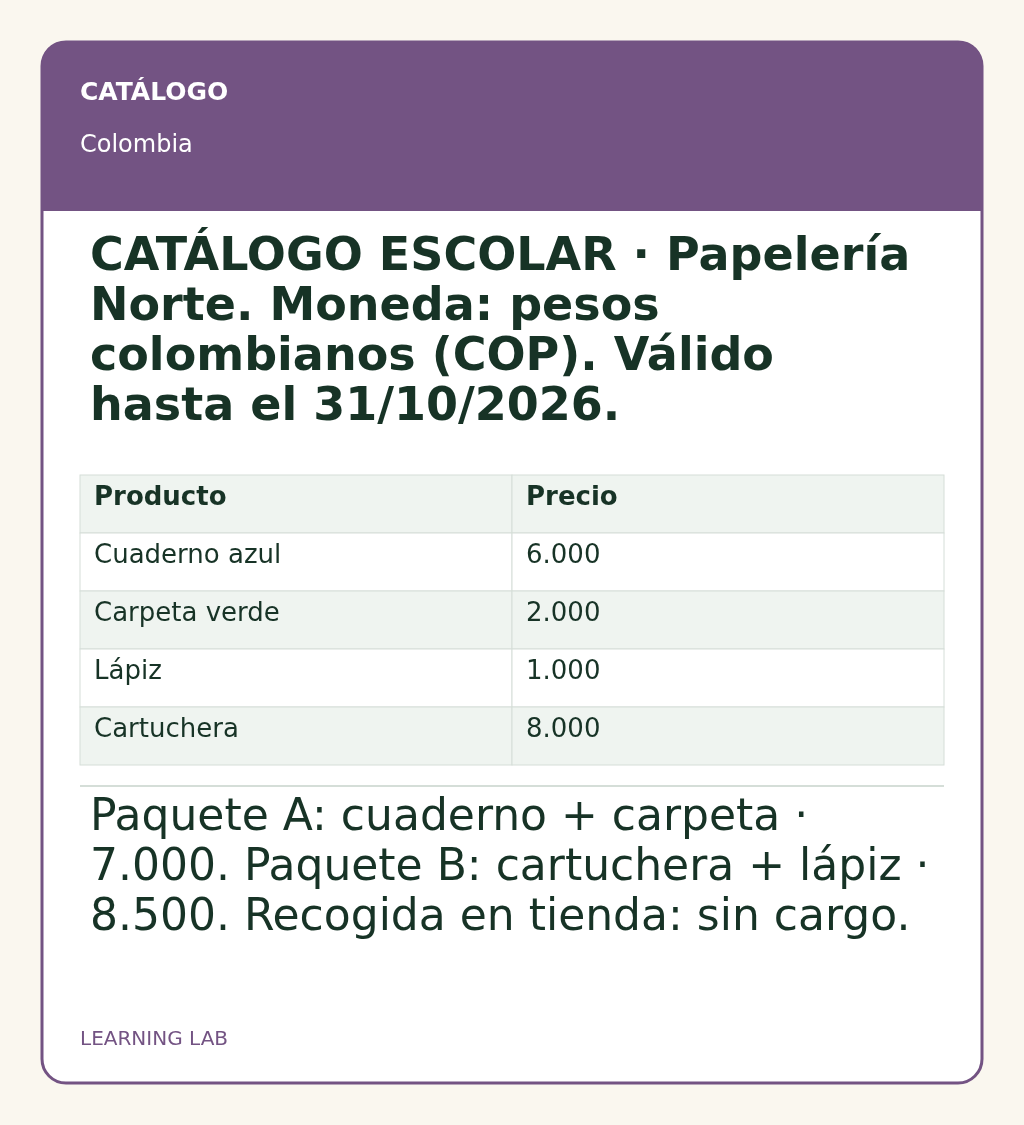
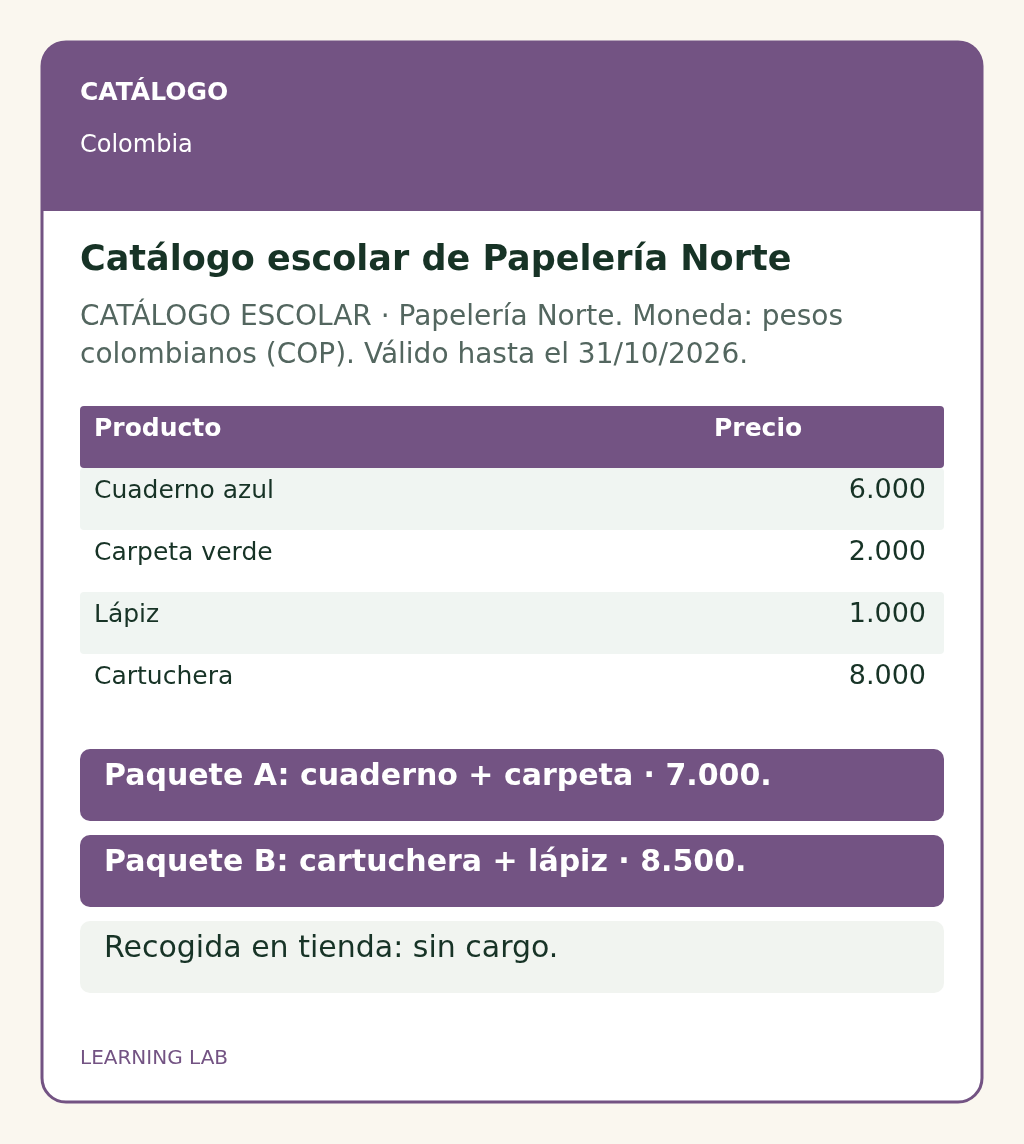
Clarify attention facts, shorten memory labels and streamline challenge selection

diff --git a/js/activity-model.js b/js/activity-model.js
@@ -28,6 +28,8 @@
     // A complete four-choice comparison is the same material without a model.
     // Keep labels and code characters intact; incomplete prose stays untouched.
     const choices=value.match(/^\s*A:\s*(\S+)\s+B:\s*(\S+)\s+C:\s*(\S+)\s+D:\s*(\S+)\s*$/iu);
+    const labelled=value.match(/^\s*A\)\s*([^·]+?)\s*·\s*B\)\s*([^·]+?)\s*·\s*C\)\s*([^·]+?)\s*·\s*D\)\s*([^·]+?)\s*$/iu);
+    if(labelled&&labelled.slice(1).every(data=>data.trim()))return [{type:'table',rows:labelled.slice(1).map((data,i)=>[String.fromCharCode(65+i),data.trim()]),presentation:'labelledComparison'}];
     return choices?[{type:'table',rows:choices.slice(1).map((code,i)=>[String.fromCharCode(65+i),code]),presentation:'codeComparison'}]:null;
   }
   function legacyStimulus(item) {
@@ -277,13 +279,14 @@
     return item;
   }
   function escape(text) { return String(text).replace(/[&<>"']/g, c => ({'&':'&amp;','<':'&lt;','>':'&gt;','"':'&quot;',"'":'&#39;'}[c])); }
+  function memoryLabel(value){return String(value).replace(/^(?:el|la|los|las|un|una|unos|unas)\s+/iu,'');}
   function visualLabel(value,senses={}){
     if(value===undefined||value===null||!String(value).trim())throw new Error('Falta la etiqueta visual.');
     if(value==='—')return '<span class="empty-memory-cell">Vacío</span>';
     const raw=String(value),glyphs=/^[●○□△☆\s·]+$/.test(raw)?raw.match(/[●○□△☆]/g):null;
     if(glyphs)return `<span class="picture-glyphs" aria-hidden="true">${glyphs.map(x=>art.svg(art.forLabel(x))).join('')}</span><span class="stimulus-only-text">${escape(raw)}</span>`;
     const key=art?.forLabel(raw,senses);
-    return `${key?`<span class="picture-icon" aria-hidden="true">${art.svg(key)}</span>`:''}<span>${escape(raw)}</span>`;
+    return `${key?`<span class="picture-icon" aria-hidden="true">${art.svg(key)}</span>`:''}<span>${escape(key&&senses.memory?memoryLabel(raw):raw)}</span>`;
   }
   function interactiveStimulus(blocks,options={}) {
     // The topic is already visible above the question. Keep it in the canonical
@@ -296,14 +299,15 @@
         return `<figure class="practice-document"><img src="${escape(doc.path)}" width="${doc.width}" height="${doc.height}" alt="${escape(doc.title)}" loading="eager"><figcaption>${escape(doc.kind)} · ${escape(doc.country)} · <a href="${escape(doc.path)}" target="_blank" rel="noopener">Ampliar documento</a></figcaption></figure><details class="document-transcript"><summary>Ver versión en texto</summary>${interactiveStimulus(doc.transcript,{structured:true})}</details>`;
       }
       if(block.presentation==='associations'){
-        return `<div class="association-frame"><table class="memory-associations"><thead><tr><th scope="col">Persona</th><th scope="col">Imagen</th></tr></thead><tbody>${block.rows.map(row=>`<tr><th scope="row"><span class="person-initial" aria-hidden="true">${escape(row[0].slice(0,1))}</span>${escape(row[0])}</th><td>${visualLabel(row[1],options.senses)}</td></tr>`).join('')}</tbody></table></div>`;
+        return `<div class="association-frame"><table class="memory-associations"><thead><tr><th scope="col">Persona</th><th scope="col">Imagen</th></tr></thead><tbody>${block.rows.map(row=>`<tr><th scope="row"><span class="person-initial" aria-hidden="true">${escape(row[0].slice(0,1))}</span>${escape(row[0])}</th><td>${visualLabel(row[1],{...options.senses,memory:true})}</td></tr>`).join('')}</tbody></table></div>`;
       }
-      if(block.type==='list'&&['sequence','cards'].includes(block.presentation))return `${block.label?`<p class="stimulus-caption">${escape(block.label)}</p>`:''}<div class="memory-object-sequence" role="list">${block.items.map((x,i)=>`<div class="stimulus-unit" role="listitem">${block.presentation==='sequence'?`<span class="unit-position">${i+1}</span>`:''}${visualLabel(x,{...options.senses,subject:block.label})}</div>`).join('')}</div>`;
+      if(block.type==='list'&&['sequence','cards'].includes(block.presentation))return `${block.label?`<p class="stimulus-caption">${escape(block.label)}</p>`:''}<div class="memory-object-sequence" role="list">${block.items.map((x,i)=>`<div class="stimulus-unit" role="listitem">${block.presentation==='sequence'?`<span class="unit-position">${i+1}</span>`:''}${visualLabel(x,{...options.senses,subject:block.label,memory:options.memory})}</div>`).join('')}</div>`;
       if(block.presentation==='spatial'){
-        return `<div class="recall-grid" style="--grid-size:${block.rows[0].length}" role="table" aria-label="${escape(block.label||'Cuadrícula para recordar')}">${block.rows.map((row,r)=>`<div role="row">${row.map((x,c)=>`<div role="cell" aria-label="Fila ${r+1}, columna ${c+1}: ${escape(x)}">${visualLabel(x,options.senses)}</div>`).join('')}</div>`).join('')}</div>`;
+        return `<div class="recall-grid" style="--grid-size:${block.rows[0].length}" role="table" aria-label="${escape(block.label||'Cuadrícula para recordar')}">${block.rows.map((row,r)=>`<div role="row">${row.map((x,c)=>`<div role="cell" aria-label="Fila ${r+1}, columna ${c+1}: ${escape(x)}">${visualLabel(x,{...options.senses,memory:true})}</div>`).join('')}</div>`).join('')}</div>`;
       }
       if(block.presentation==='speedComparison')return `<div class="speed-comparison" role="group" aria-label="Dos series para comparar">${block.rows[0].map((series,i)=>`<div class="speed-series" aria-label="Serie ${i+1}">${series.split(' · ').map(x=>`<span class="speed-symbol">${visualLabel(x,options.senses)}</span>`).join('')}</div>`).join('')}</div>`;
       if(block.presentation==='reviewPlan')return `${block.label?`<p class="stimulus-caption">${escape(block.label)}</p>`:''}<div class="stimulus-table-scroll" tabindex="0" role="region" aria-label="Compara las condiciones y el plan"><table class="structured-stimulus-table review-plan-table"><thead><tr>${block.rows[0].map(x=>`<th scope="col">${escape(x)}</th>`).join('')}</tr></thead><tbody>${block.rows.slice(1).map(row=>`<tr><th scope="row">${escape(row[0])}</th>${row.slice(1).map((value,i)=>`<td><span class="review-column-label" aria-hidden="true">${escape(block.rows[0][i+1])}</span>${escape(value)}</td>`).join('')}</tr>`).join('')}</tbody></table></div>`;
+      if(block.presentation==='labelledComparison')return `<table class="attention-comparison attention-data"><thead><tr><th scope="col">Opción</th><th scope="col">Datos</th></tr></thead><tbody>${block.rows.map(row=>`<tr><th scope="row">${escape(row[0])}</th><td>${escape(row[1])}</td></tr>`).join('')}</tbody></table>`;
       if(block.presentation==='codeComparison')return `<table class="attention-comparison"><tbody>${block.rows.map(row=>`<tr><th scope="row">${escape(row[0])}</th><td><code>${escape(row[1])}</code></td></tr>`).join('')}</tbody></table>`;
       if(block.type==='text'&&block.presentation==='model'&&!options.illustrated)return `<div class="attention-model"><span>MODELO</span><code>${escape(block.text.slice(8))}</code></div>`;
       if(options.illustrated){
@@ -323,7 +327,7 @@
       return `<table>${block.rows.map(row => `<tr>${row.map(x => `<td>${escape(x)}</td>`).join('')}</tr>`).join('')}</table>`;
     }).join('');
   }
-  const api = { comparisonStimulus, preparePrintable, printable, validateBatch, forDelivery, interactiveStimulus, choiceKey, visualLabel };
+  const api = { memoryLabel, comparisonStimulus, preparePrintable, printable, validateBatch, forDelivery, interactiveStimulus, choiceKey, visualLabel };
   root.ActivityModel = api;
   if (typeof module !== 'undefined') module.exports = api;
 })(typeof window === 'undefined' ? globalThis : window);

diff --git a/js/app.js b/js/app.js
@@ -222,7 +222,7 @@
     const visual = $("#exerciseVisual"),
       area = $("#exerciseOptions");
     const cards = it.stimulus
-      ? `<div class="reading-passage">${window.ActivityModel.interactiveStimulus(it.stimulus,{illustrated:Boolean(window.ContentPolicy.forProfile(profile)),structured:!window.ContentPolicy.forProfile(profile),senses:it.lexicalSenses})}</div>`
+      ? `<div class="reading-passage">${window.ActivityModel.interactiveStimulus(it.stimulus,{illustrated:Boolean(window.ContentPolicy.forProfile(profile)),structured:!window.ContentPolicy.forProfile(profile),memory:true,senses:it.lexicalSenses})}</div>`
       : (it.memoryContent || [])
       .map((x) =>
         x.person
@@ -243,7 +243,7 @@
           if(index===it.recallSequence.length){
             visual.innerHTML='';$('#exercisePrompt').textContent=it.memoryQuestion;renderOrderExercise(it);return;
           }
-          visual.innerHTML=`<div class="sequence-flash"><small>${index+1} / ${it.recallSequence.length}</small>${window.ActivityModel.visualLabel(it.recallSequence[index++],it.lexicalSenses)}</div>`;
+          visual.innerHTML=`<div class="sequence-flash"><small>${index+1} / ${it.recallSequence.length}</small>${window.ActivityModel.visualLabel(it.recallSequence[index++],{...it.lexicalSenses,memory:true})}</div>`;
           setTimeout(()=>{if(currentItem!==it)return;visual.innerHTML='<div class="sequence-flash" aria-hidden="true">·</div>';setTimeout(step,250);},it.sequenceStepMs);
         };step();
       };return;
@@ -299,7 +299,7 @@
     const selected = new Set();
     const opts = shuffle(it.opts || []);
     $("#exerciseOptions").innerHTML =
-      `<div class="multi-select-grid">${opts.map((o) => `<button class="option-btn multi-option" data-value="${escapeHtml(o)}" aria-label="${escapeHtml(o)}" aria-pressed="false">${it.memoryResponse==='multiple'?window.ActivityModel.visualLabel(o,it.lexicalSenses):escapeHtml(o)}</button>`).join("")}</div><div class="multi-actions"><span id="multiCount" role="status">${(['multiSelect','documentReview'].includes(it.type)||it.memoryResponse==='multiple')?'0 seleccionadas':`0/${(it.answers || []).length} seleccionados`}</span><button id="multiCheck" class="primary-btn" ${(['multiSelect','documentReview'].includes(it.type)||it.memoryResponse==='multiple')?'disabled':''}>Comprobar selección</button></div>`;
+      `<div class="multi-select-grid">${opts.map((o) => `<button class="option-btn multi-option" data-value="${escapeHtml(o)}" aria-label="${escapeHtml(o)}" aria-pressed="false">${it.memoryResponse==='multiple'?window.ActivityModel.visualLabel(o,{...it.lexicalSenses,memory:subject==='memory'}):escapeHtml(o)}</button>`).join("")}</div><div class="multi-actions"><span id="multiCount" role="status">${(['multiSelect','documentReview'].includes(it.type)||it.memoryResponse==='multiple')?'0 seleccionadas':`0/${(it.answers || []).length} seleccionados`}</span><button id="multiCheck" class="primary-btn" ${(['multiSelect','documentReview'].includes(it.type)||it.memoryResponse==='multiple')?'disabled':''}>Comprobar selección</button></div>`;
     $$("#exerciseOptions .multi-option").forEach(
       (b) =>
         (b.onclick = () => {
@@ -926,7 +926,7 @@
     const opts = shuffle(it.opts || []);
     const illustrated=Boolean(window.ContentPolicy.forProfile(profile)) && opts.every(o=>window.StimulusArt.forLabel(o,it.lexicalSenses)||/^[●○□△☆\s·]+$/.test(o));
     $("#exerciseOptions").innerHTML = opts
-      .map((o) => `<button class="option-btn" data-answer="${escapeHtml(o)}" aria-label="${escapeHtml(o)}">${illustrated?window.ActivityModel.visualLabel(o,it.lexicalSenses):escapeHtml(o)}</button>`)
+      .map((o) => `<button class="option-btn" data-answer="${escapeHtml(o)}" aria-label="${escapeHtml(o)}">${illustrated?window.ActivityModel.visualLabel(o,{...it.lexicalSenses,memory:subject==='memory'}):escapeHtml(o)}</button>`)
       .join("");
     $$("#exerciseOptions .option-btn").forEach(
       (b) => (b.onclick = () => checkOption(b, b.dataset.answer)),
@@ -965,7 +965,7 @@
       const slots = expected
         .map(
           (_, i) =>
-            `<button class="sequence-slot ${picked[i] ? "filled" : ""}" data-slot="${i}"><span>${i + 1}</span>${picked[i] ? escapeHtml(picked[i]) : it.memoryResponse==='order'?"Elige un elemento":"Selecciona un paso"}</button>`,
+            `<button class="sequence-slot ${picked[i] ? "filled" : ""}" data-slot="${i}"><span>${i + 1}</span>${picked[i] ? escapeHtml(it.memoryResponse==='order'?window.ActivityModel.memoryLabel(picked[i]):picked[i]) : it.memoryResponse==='order'?"Elige un elemento":"Selecciona un paso"}</button>`,
         )
         .join("");
       const tray = tokens

diff --git a/supabase/functions/request-learning-content/index.ts b/supabase/functions/request-learning-content/index.ts
@@ -1164,6 +1164,10 @@ function mechanicSignature(domain:string,item:any){
 
 
 function generatedItems(domain:string,n:number,recentEntries:string[],factory:()=>any){
+  // Candidates are immutable within a selection. Reuse their evidence-based
+  // signatures instead of serializing the same stimuli in every scoring pass.
+  const signatures=new WeakMap<object,string>();
+  const signature=(item:any)=>{if(!signatures.has(item))signatures.set(item,contentSignature(domain,item));return signatures.get(item)!;};
   const recentItems=new Set(recentEntries.filter((x:string)=>x.includes(":item:")).slice(-360));
   const mechanicHistory=recentEntries.filter((x:string)=>x.includes(":mechanic:")).slice(-360);
   const mechanicCounts=new Map<string,number>();
@@ -1175,7 +1179,7 @@ function generatedItems(domain:string,n:number,recentEntries:string[],factory:()
   for(let tries=0;tries<900;tries++){
     const cand=normalizeItem(factory());
     if(!validateItem(cand)) continue;
-    const sig=contentSignature(domain,cand);
+    const sig=signature(cand);
     if(seenPool.has(sig)) continue;
     seenPool.add(sig);
     pool.push(cand);
@@ -1188,28 +1192,29 @@ function generatedItems(domain:string,n:number,recentEntries:string[],factory:()
   for(let i=0;i<n;i++){
     // A recent-window rotation is only a fallback after the available pool has
     // no unseen source left. More documents must not cause earlier repeats.
-    const freshAvailable=pool.some(cand=>{const sig=contentSignature(domain,cand);return !localItems.has(sig)&&!recentItems.has(sig);});
+    const freshAvailable=pool.some(cand=>{const sig=signature(cand);return !localItems.has(sig)&&!recentItems.has(sig);});
     let best:any=null, bestScore=Infinity;
+    // History changes only after choosing an item, not for every candidate.
+    const passageHistory=[...recentEntries,...out.map((it:any)=>signature(it))].filter((x:string)=>x.includes(':item:passage:'));
+    const previousPassages=passageHistory.slice(-9),previousPassage=passageHistory.at(-1);
+    const readingDomain=['reading','middleReading','literacy'].includes(domain);
     for(const cand of pool){
-      const sig=contentSignature(domain,cand);
+      const sig=signature(cand);
       if(localItems.has(sig)) continue;
       const msig=mechanicSignature(domain,cand);
-      const previousPassages=[...recentEntries,...out.map((it:any)=>contentSignature(domain,it))].filter((x:string)=>x.includes(":item:passage:")).slice(-9);
       const itemPenalty=(recentItems.has(sig)&&(!cand.passageKey||freshAvailable)||cand.passageKey&&previousPassages.includes(sig))?100000:0;
       const recentPenalty=veryRecent.has(msig)?10000:0;
       const localPenalty=localMechanics.has(msig)?5000:0;
       const countPenalty=(mechanicCounts.get(msig)||0)*100;
       // Alternate text and visual sources where both are available. Fresh
       // sources and the nine-source recent window retain higher priority.
-      const previousPassage=[...recentEntries,...out.map((it:any)=>contentSignature(domain,it))].filter((x:string)=>x.includes(':item:passage:')).at(-1);
-      const readingDomain=['reading','middleReading','literacy'].includes(domain);
       const sameFormat=previousPassage&&previousPassage.includes(':passage:document:')===Boolean(cand.passageKey?.startsWith('document:'));
       const formatPenalty=readingDomain&&sameFormat?20000:0;
       const score=itemPenalty+formatPenalty+recentPenalty+localPenalty+countPenalty+Math.random();
       if(score<bestScore){best=cand;bestScore=score;}
     }
     if(!best) break;
-    const sig=contentSignature(domain,best), msig=mechanicSignature(domain,best);
+    const sig=signature(best), msig=mechanicSignature(domain,best);
     localItems.add(sig); localMechanics.add(msig);
     mechanicCounts.set(msig,(mechanicCounts.get(msig)||0)+1);
     out.push(best);

diff --git a/js/curriculum.js b/js/curriculum.js
@@ -460,10 +460,10 @@ function executive(age,level){
  }
  return tasks.concat(review(age,level));
 }
-const cache=new Map();let reasoningProvider=null,writingProvider=null;
-function registerReasoning(provider){reasoningProvider=provider;for(const key of cache.keys())if(key.includes(':executive:'))cache.delete(key);}
+const cache=new Map(),generationGroups=new Map();let reasoningProvider=null,writingProvider=null;
+function registerReasoning(provider){reasoningProvider=provider;generationGroups.clear();for(const key of cache.keys())if(key.includes(':executive:'))cache.delete(key);}
 
-function registerWriting(provider){writingProvider=provider;cache.clear();}
+function registerWriting(provider){writingProvider=provider;cache.clear();generationGroups.clear();}
 function supports(age,domain){return ages.includes(age)&&(['executive','applied','memory','speedReasoning'].includes(domain)||(['early','junior'].includes(age)?domain==='reading':['primary','middle','teen'].includes(age)&&['literacy','reading','middleReading'].includes(domain)));}
 function pool(age,domain,level=1){
  if(!supports(age,domain))return [];
@@ -476,7 +476,24 @@ function pool(age,domain,level=1){
  }
  return structuredClone(cache.get(key)).map(it=>domain==='applied'?{...it,domain,...(age==='early'?{ageProfile:{...it.ageProfile,mechanic:'chooseObject'}}:{})}:it);
 }
-function generate(age,domain,level=1,focus=null){const actual=domain==='applied'?'executive':domain,key=[age,actual,level].join(':');if(!cache.has(key))pool(age,actual,level);let bank=cache.get(key)||[];if(focus)bank=bank.filter(x=>focus==='writing'?x.type==='self'||x.responseType==='written'||x.type==='order':x.type!=='self'&&x.responseType!=='written'&&x.type!=='order');const groups=[...new Set(bank.map(x=>x.mechanic))],family=groups[Math.floor(Math.random()*groups.length)];bank=bank.filter(x=>x.mechanic===family);const it=bank[Math.floor(Math.random()*bank.length)];return it?{...structuredClone(it),domain,...(age==='early'&&domain==='applied'?{ageProfile:{...it.ageProfile,mechanic:'chooseObject'}}:{})}:null;}
+function generate(age,domain,level=1,focus=null){
+ const actual=domain==='applied'?'executive':domain,key=[age,actual,level].join(':');
+ if(!cache.has(key))pool(age,actual,level);
+ const groupKey=key+':'+(focus||'all');
+ if(!generationGroups.has(groupKey)){
+  const grouped=new Map();
+  for(const item of cache.get(key)||[]){
+   const written=item.type==='self'||item.responseType==='written'||item.type==='order';
+   if(focus&&(focus==='writing'?!written:written))continue;
+   if(!grouped.has(item.mechanic))grouped.set(item.mechanic,[]);
+   grouped.get(item.mechanic).push(item);
+  }
+  generationGroups.set(groupKey,[...grouped.values()]);
+ }
+ const groups=generationGroups.get(groupKey),bank=groups[Math.floor(Math.random()*groups.length)]||[];
+ const it=bank[Math.floor(Math.random()*bank.length)];
+ return it?{...structuredClone(it),domain,...(age==='early'&&domain==='applied'?{ageProfile:{...it.ageProfile,mechanic:'chooseObject'}}:{})}:null;
+}
 function visible(domains,age){return domains.filter(d=>d!=='applied'&&!(age==='primary'&&d==='reading')&&!(age==='middle'&&d==='middleReading'));}
 function migrate(progress={},age){
  if(progress._curriculumRevision===2)return progress;

diff --git a/supabase/functions/request-learning-content/curriculum.js b/supabase/functions/request-learning-content/curriculum.js
@@ -460,10 +460,10 @@ function executive(age,level){
  }
  return tasks.concat(review(age,level));
 }
-const cache=new Map();let reasoningProvider=null,writingProvider=null;
-function registerReasoning(provider){reasoningProvider=provider;for(const key of cache.keys())if(key.includes(':executive:'))cache.delete(key);}
+const cache=new Map(),generationGroups=new Map();let reasoningProvider=null,writingProvider=null;
+function registerReasoning(provider){reasoningProvider=provider;generationGroups.clear();for(const key of cache.keys())if(key.includes(':executive:'))cache.delete(key);}
 
-function registerWriting(provider){writingProvider=provider;cache.clear();}
+function registerWriting(provider){writingProvider=provider;cache.clear();generationGroups.clear();}
 function supports(age,domain){return ages.includes(age)&&(['executive','applied','memory','speedReasoning'].includes(domain)||(['early','junior'].includes(age)?domain==='reading':['primary','middle','teen'].includes(age)&&['literacy','reading','middleReading'].includes(domain)));}
 function pool(age,domain,level=1){
  if(!supports(age,domain))return [];
@@ -476,7 +476,24 @@ function pool(age,domain,level=1){
  }
  return structuredClone(cache.get(key)).map(it=>domain==='applied'?{...it,domain,...(age==='early'?{ageProfile:{...it.ageProfile,mechanic:'chooseObject'}}:{})}:it);
 }
-function generate(age,domain,level=1,focus=null){const actual=domain==='applied'?'executive':domain,key=[age,actual,level].join(':');if(!cache.has(key))pool(age,actual,level);let bank=cache.get(key)||[];if(focus)bank=bank.filter(x=>focus==='writing'?x.type==='self'||x.responseType==='written'||x.type==='order':x.type!=='self'&&x.responseType!=='written'&&x.type!=='order');const groups=[...new Set(bank.map(x=>x.mechanic))],family=groups[Math.floor(Math.random()*groups.length)];bank=bank.filter(x=>x.mechanic===family);const it=bank[Math.floor(Math.random()*bank.length)];return it?{...structuredClone(it),domain,...(age==='early'&&domain==='applied'?{ageProfile:{...it.ageProfile,mechanic:'chooseObject'}}:{})}:null;}
+function generate(age,domain,level=1,focus=null){
+ const actual=domain==='applied'?'executive':domain,key=[age,actual,level].join(':');
+ if(!cache.has(key))pool(age,actual,level);
+ const groupKey=key+':'+(focus||'all');
+ if(!generationGroups.has(groupKey)){
+  const grouped=new Map();
+  for(const item of cache.get(key)||[]){
+   const written=item.type==='self'||item.responseType==='written'||item.type==='order';
+   if(focus&&(focus==='writing'?!written:written))continue;
+   if(!grouped.has(item.mechanic))grouped.set(item.mechanic,[]);
+   grouped.get(item.mechanic).push(item);
+  }
+  generationGroups.set(groupKey,[...grouped.values()]);
+ }
+ const groups=generationGroups.get(groupKey),bank=groups[Math.floor(Math.random()*groups.length)]||[];
+ const it=bank[Math.floor(Math.random()*bank.length)];
+ return it?{...structuredClone(it),domain,...(age==='early'&&domain==='applied'?{ageProfile:{...it.ageProfile,mechanic:'chooseObject'}}:{})}:null;
+}
 function visible(domains,age){return domains.filter(d=>d!=='applied'&&!(age==='primary'&&d==='reading')&&!(age==='middle'&&d==='middleReading'));}
 function migrate(progress={},age){
  if(progress._curriculumRevision===2)return progress;

diff --git a/tests/attention-memory-performance.test.js b/tests/attention-memory-performance.test.js
@@ -1,0 +1,30 @@
+const test=require('node:test'),assert=require('node:assert/strict'),m=require('../js/activity-model'),c=require('../js/curriculum'),art=require('../js/stimulus-art'),load=require('./edge-harness');
+test('attention labelled facts retain A-D mapping in UI and printable material, including colour-number pairs',()=>{
+ const scenario='A) azul-5 · B) rojo-6 · C) azul-6 · D) verde-7';
+ const blocks=m.comparisonStimulus(scenario);
+ assert.deepEqual(blocks[0].rows,[['A','azul-5'],['B','rojo-6'],['C','azul-6'],['D','verde-7']]);
+ const it={domain:'attention',type:'standard',q:'Elige la opción que es azul y tiene número par.',scenario,a:'C',opts:['C','B','D','A']};
+ assert.deepEqual(m.printable(it,{age_band:'teen'}).stimulus,blocks);
+ const html=m.interactiveStimulus(blocks);assert.equal((html.match(/scope="row"/g)||[]).length,4);assert.match(html,/<th scope="row">C<\/th><td>azul-6<\/td>/);
+ for(const bad of ['A) azul-5 · B) rojo-6 · C) azul-6','A) azul · B) rojo · B) verde · D) amarillo','A) · B) rojo · C) azul · D) verde'])assert.equal(m.comparisonStimulus(bad),null);
+ assert.match(m.interactiveStimulus(m.comparisonStimulus('A) <azul> · B) rojo · C) azul · D) verde')),/&lt;azul&gt;/);
+});
+test('memory icon labels are concise while canonical evidence and other subject labels remain intact',()=>{
+ for(const label of c.memoryCategories.flatMap(x=>x.items)){
+  const senses={banana:true,memory:true};assert.ok(art.forLabel(label,senses));
+  const shown=m.visualLabel(label,senses);assert.ok(shown.endsWith('<span>'+m.memoryLabel(label)+'</span>'));
+  assert.ok(m.visualLabel(label,{banana:true}).endsWith('<span>'+label+'</span>'));
+ }
+ const it=c.pool('teen','memory',1)[0],before=structuredClone(it);
+ const html=m.interactiveStimulus(it.stimulus,{memory:true,senses:it.lexicalSenses});assert.match(html,/<svg/);assert.deepEqual(it,before);
+ assert.equal(m.memoryLabel('la llave inglesa'),'llave inglesa');assert.equal(m.memoryLabel('la tienda de campaña'),'tienda de campaña');
+});
+test('cached mechanic groups preserve the complete speed bank and return isolated candidates',()=>{
+ const {context}=load(),bank=context.Curriculum.pool('teen','speedReasoning',3),keys=new Set(),families=new Set();
+ for(let i=0;i<12000;i++){
+  const it=context.Curriculum.generate('teen','speedReasoning',3);keys.add(it.contentKey);families.add(it.mechanic);
+  it.q='mutated';if(it.stimulus?.[0]?.rows)it.stimulus[0].rows[0][0]='mutated';
+ }
+ assert.equal(keys.size,new Set(bank.map(x=>x.contentKey)).size);assert.deepEqual([...families].sort(),[...new Set(bank.map(x=>x.mechanic))].sort());
+ assert.ok(context.Curriculum.pool('teen','speedReasoning',3).every(x=>x.q!=='mutated'&&x.stimulus?.[0]?.rows?.[0]?.[0]!=='mutated'));
+});

diff --git a/tests/worksheet.test.js b/tests/worksheet.test.js
@@ -41,7 +41,10 @@ function assertAnswerable(nodes, items, profile) {
     assert.ok(q>0,'question must follow stimulus');
     for(const stimulus of projection.stimulus) {
       const values=stimulus.type==='text'?[stimulus.text]:stimulus.type==='list'?stimulus.items:stimulus.rows.flat();
-      for(const value of values) assert.ok(block.slice(0,q).some(s=>s===value||/^\d+\. /.test(s)&&s.endsWith(value)),`missing stimulus: ${value}`);
+      for(const value of values) {
+        const visible=items[i].type==='memoryReveal'&&art.forLabel(value,items[i].lexicalSenses)?model.memoryLabel(value):value;
+        assert.ok(block.slice(0,q).some(s=>s===visible||/^\d+\. /.test(s)&&s.endsWith(visible)),`missing stimulus: ${value}`);
+      }
     }
     for(const option of projection.options) assert.ok(block.some(s=>s.endsWith(`. ${option}`)),`missing option: ${option}`);
     for(const token of projection.tokens) assert.ok(block.some(s=>/^\d+\. /.test(s)&&s.endsWith(token)),`missing order token: ${token}`);
@@ -268,4 +271,18 @@ test('mixed worksheets flow as ordinary body blocks without exercise-count page 
  const topLevelTitles=document.match(/<w:p><w:pPr><w:keepNext\/>[\s\S]*?<w:t[^>]*>ACTIVIDAD \d+<\/w:t>/g)||[];
  assert.equal(topLevelTitles.length,items.length);
  assertAnswerable(textNodes(document),items,{age_band:'teen'});
+});
+
+
+test('memory DOCX labels omit articles while image metadata retains canonical evidence',async()=>{
+ const {generator,downloads}=harness();
+ const item=require('../js/curriculum').pool('teen','memory',1).find(it=>it.mechanic==='memory_sequence');
+ const before=structuredClone(item);
+ await generator.generate([[item]],{age_band:'teen',progress:{ageRoute:'teen'}});
+ const source=await xml(downloads[0].blob),nodes=textNodes(source);
+ for(const value of item.stimulus.flatMap(b=>b.type==='list'?b.items:[])){
+  assert.ok(nodes.includes(model.memoryLabel(value)));
+  assert.ok(source.includes('description="'+value+'"')||source.includes('descr="'+value+'"'));
+ }
+ assert.deepEqual(item,before);
 });

diff --git a/js/document-library.js b/js/document-library.js
@@ -876,7 +876,7 @@ function validateExecutiveTask(item){
  return true;
 }
 // Generated document dimensions.
-const documentHeights={"advert-co": 1020, "brochure-co-v1": 1040, "catalogue-co-v1": 1125, "form-es": 1070, "infographic-cr": 1240, "instructions-cr": 1105, "invoice-co-v1": 1101, "label-mx": 920, "map-cl": 1440, "menu-ar": 1020, "news-pa": 1020, "notice-cl": 935, "post-pa": 1020, "poster-mx": 785, "receipt-co-v1": 1017, "schedule-ar": 955, "ticket-es": 820, "transport-co": 920};
+const documentHeights={"advert-co": 1020, "brochure-co-v1": 1040, "catalogue-co-v1": 1144, "form-es": 1070, "infographic-cr": 1240, "instructions-cr": 1105, "invoice-co-v1": 1204, "label-mx": 920, "map-cl": 1440, "menu-ar": 1020, "news-pa": 1020, "notice-cl": 935, "post-pa": 1020, "poster-mx": 785, "receipt-co-v1": 1168, "schedule-ar": 955, "ticket-es": 820, "transport-co": 920};
 for(const [id,height] of Object.entries(documentHeights))documents[id].height=height;
 const attentionAdvanced={
  'invoice-co-v1':['¿Qué combinación coincide con el subtotal y la entrega, en ese orden?','22.000 COP y 3.000 COP',['25.000 COP y 3.000 COP','22.000 COP y 6.000 COP','12.000 COP y 4.000 COP']],

diff --git a/supabase/functions/request-learning-content/document-library.js b/supabase/functions/request-learning-content/document-library.js
@@ -876,7 +876,7 @@ function validateExecutiveTask(item){
  return true;
 }
 // Generated document dimensions.
-const documentHeights={"advert-co": 1020, "brochure-co-v1": 1040, "catalogue-co-v1": 1125, "form-es": 1070, "infographic-cr": 1240, "instructions-cr": 1105, "invoice-co-v1": 1101, "label-mx": 920, "map-cl": 1440, "menu-ar": 1020, "news-pa": 1020, "notice-cl": 935, "post-pa": 1020, "poster-mx": 785, "receipt-co-v1": 1017, "schedule-ar": 955, "ticket-es": 820, "transport-co": 920};
+const documentHeights={"advert-co": 1020, "brochure-co-v1": 1040, "catalogue-co-v1": 1144, "form-es": 1070, "infographic-cr": 1240, "instructions-cr": 1105, "invoice-co-v1": 1204, "label-mx": 920, "map-cl": 1440, "menu-ar": 1020, "news-pa": 1020, "notice-cl": 935, "post-pa": 1020, "poster-mx": 785, "receipt-co-v1": 1168, "schedule-ar": 955, "ticket-es": 820, "transport-co": 920};
 for(const [id,height] of Object.entries(documentHeights))documents[id].height=height;
 const attentionAdvanced={
  'invoice-co-v1':['¿Qué combinación coincide con el subtotal y la entrega, en ese orden?','22.000 COP y 3.000 COP',['25.000 COP y 3.000 COP','22.000 COP y 6.000 COP','12.000 COP y 4.000 COP']],

diff --git a/js/docx.js b/js/docx.js
@@ -76,7 +76,7 @@
       // Glyphs are the units themselves: never add a second pictogram/dot.
       const prefix=position===undefined?[]:[new TextRun({text:`${position}. `,size:textSize})];
       const picture=key&&!/^[●○□△☆]$/.test(value)?[new ImageRun({data:window.StimulusArt.png(key),transformation:{width:32,height:32},altText:{name:'Objeto: '+value,title:value,description:value}}),new TextRun({text:' '})]:[];
-      return new Paragraph({spacing:{line:360,after:90},children:[...prefix,...picture,new TextRun({text:value,size:textSize,color:ink,font:'Aptos'})]});
+      return new Paragraph({spacing:{line:360,after:90},children:[...prefix,...picture,new TextRun({text:key&&item.type==='memoryReveal'?window.ActivityModel.memoryLabel(value):value,size:textSize,color:ink,font:'Aptos'})]});
     }
     function renderMaterial(material,item){
       const heading=material.label?[paragraph(material.label)]:[];

diff --git a/css/styles.css b/css/styles.css
@@ -2857,3 +2857,9 @@ body {
 .document-mode-hint{margin:0 0 1rem;line-height:1.5}
 .multi-option .picture-icon{display:inline-flex;vertical-align:middle;margin-right:.6rem}
 .multi-option .picture-icon svg{width:2.7rem;height:2.7rem}
+
+/* Labelled attention data keep their source letters even when answers shuffle. */
+.reading-passage .attention-data {max-width:48rem;table-layout:fixed;border-collapse:separate;border-spacing:0 8px}
+.attention-data thead th {width:auto;background:transparent;text-align:left;font-size:.85rem;color:var(--muted);padding:4px 16px}
+.attention-data thead th:first-child {width:5rem}
+.attention-data td {overflow-wrap:anywhere;line-height:1.5}

diff --git a/scripts/render-authored-documents.py b/scripts/render-authored-documents.py
@@ -12,10 +12,39 @@ with sync_playwright() as p:
  for i,(key,doc) in enumerate(documents.items()):
   if args.only and key!=args.only:continue
   color=colors[i%len(colors)];parts=['<svg xmlns="http://www.w3.org/2000/svg" width="1024" height="1536" viewBox="0 0 1024 1536"><rect width="1024" height="1536" fill="#faf7ef"/>',f'<rect x="42" y="42" width="940" height="1452" rx="24" fill="white" stroke="{color}" stroke-width="3"/>',f'<path d="M42 66q0-24 24-24h892q24 0 24 24v145H42Z" fill="{color}"/>']
-  def text(x,y,value,size=27,fill='#173326',weight='normal'):
-   parts.append(f'<text x="{x}" y="{y}" font-family="DejaVu Sans, sans-serif" font-size="{size}" font-weight="{weight}" fill="{fill}">{html.escape(value)}</text>')
+  def text(x,y,value,size=27,fill='#173326',weight='normal',right=960):
+   parts.append(f'<text x="{x}" y="{y}" data-right="{right}" font-family="DejaVu Sans, sans-serif" font-size="{size}" font-weight="{weight}" fill="{fill}">{html.escape(value)}</text>')
   text(80,100,doc['kind'].upper(),25,'white','bold');text(80,152,doc['country'],24,'white')
   y=270
+  business=key in ['invoice-co-v1','receipt-co-v1','catalogue-co-v1']
+  if business:
+   def wrapped(value,size=28,width=820,bold=False):
+    return page.evaluate(r'''({value,size,width,bold})=>{const c=document.createElement('canvas').getContext('2d');c.font=(bold?'bold ':'')+size+'px DejaVu Sans';let line='';const out=[];for(const word of value.split(/\s+/)){const next=line?line+' '+word:word;if(line&&c.measureText(next).width>width){out.push(line);line=word;}else line=next;}if(line)out.push(line);return out;}''',{'value':value,'size':size,'width':width,'bold':bold})
+   text(80,y,doc['title'],35,weight='bold');y+=55
+   for line in wrapped(doc['transcript'][0]['text']):text(80,y,line,28,'#53665f');y+=38
+   y+=35
+   rows=doc['transcript'][1]['rows'];columns=len(rows[0]);widths={2:[620,244],3:[450,180,234],4:[310,155,225,174]}[columns]
+   for rownum,row in enumerate(rows):
+    lines=[wrapped(value,25,widths[col]-30,rownum==0) for col,value in enumerate(row)]
+    height=max(map(len,lines))*36+26
+    parts.append(f'<rect x="80" y="{y-30}" width="864" height="{height}" rx="4" fill="{color if rownum==0 else ("#f0f5f2" if rownum%2 else "#ffffff")}"/>')
+    x=80
+    for col,values in enumerate(lines):
+     for n,line in enumerate(values):
+      if rownum>0 and col>0:
+       parts.append(f'<text x="{x+widths[col]-18}" y="{y+n*36}" text-anchor="end" font-family="DejaVu Sans, sans-serif" font-size="27" fill="#173326">{html.escape(line)}</text>')
+      else:text(x+14,y+n*36,line,25,'white' if rownum==0 else '#173326','bold' if rownum==0 else 'normal',right=x+widths[col]-14)
+     x+=widths[col]
+    y+=height
+   y+=30
+   # Keep the authored wording and numbers verbatim, splitting only at sentence
+   # boundaries (never thousands separators). Emphasize totals and package offers.
+   for sentence in re.split(r'(?<=\.)\s+(?=[A-ZÁÉÍÓÚ])',doc['transcript'][2]['text']):
+    lines=wrapped(sentence,30,800);height=len(lines)*42+30
+    emphasis=sentence.startswith(('TOTAL:','Paquete'))
+    parts.append(f'<rect x="80" y="{y-27}" width="864" height="{height}" rx="10" fill="{color if emphasis else "#f1f4f0"}"/>')
+    for line in lines:text(104,y+9,line,30,'white' if emphasis else '#173326','bold' if emphasis else 'normal');y+=42
+    y+=44
   if key=='map-cl':
    text(80,270,'CENTRO CULTURAL · Concepción',36,weight='bold')
    text(80,320,'Plano esquemático · sin escala',28)
@@ -34,7 +63,7 @@ with sync_playwright() as p:
    text(80,1235,'Taller: a la izquierda, por la escalera.',30)
    text(80,1290,'Sala de música: a la derecha del patio.',30)
    y=1330
-  for j,block in enumerate([] if key=='map-cl' else doc['transcript']):
+  for j,block in enumerate([] if key=='map-cl' or business else doc['transcript']):
    if block['type']=='table':
     columns=len(block['rows'][0]);width=864/columns
     for rownum,row in enumerate(block['rows']):
@@ -62,7 +91,7 @@ with sync_playwright() as p:
   text(80,y+30,'LEARNING LAB',20,color);parts.append('</svg>')
   height=int(y+110);dimensions[key]=height
   svg=''.join(parts).replace('height="1536"',f'height="{height}"').replace('0 0 1024 1536',f'0 0 1024 {height}').replace('height="1452"',f'height="{height-84}"')
-  bounds=page.evaluate('''({svg,height})=>{document.body.innerHTML=svg;return [...document.querySelectorAll('svg text')].map(el=>{const b=el.getBBox();return {text:el.textContent,right:b.x+b.width,bottom:b.y+b.height}}).filter(x=>x.right>960||x.bottom>height-50)}''',{'svg':svg,'height':height})
+  bounds=page.evaluate('''({svg,height})=>{document.body.innerHTML=svg;return [...document.querySelectorAll('svg text')].map(el=>{const b=el.getBBox();return {text:el.textContent,right:b.x+b.width,limit:Number(el.getAttribute('data-right')||960),bottom:b.y+b.height}}).filter(x=>x.right>x.limit||x.bottom>height-50)}''',{'svg':svg,'height':height})
   if bounds:raise RuntimeError(f'Clipped document {key}: {bounds}')
   target=ROOT/'assets/documents'/f'{key}.svg';target.write_text(svg)
   png=page.evaluate('''async svg=>{const url=URL.createObjectURL(new Blob([svg],{type:'image/svg+xml'}));const img=new Image();img.src=url;await img.decode();const c=document.createElement('canvas');c.width=img.naturalWidth;c.height=img.naturalHeight;c.getContext('2d').drawImage(img,0,0);URL.revokeObjectURL(url);return c.toDataURL('image/png').split(',')[1]}''',svg)
